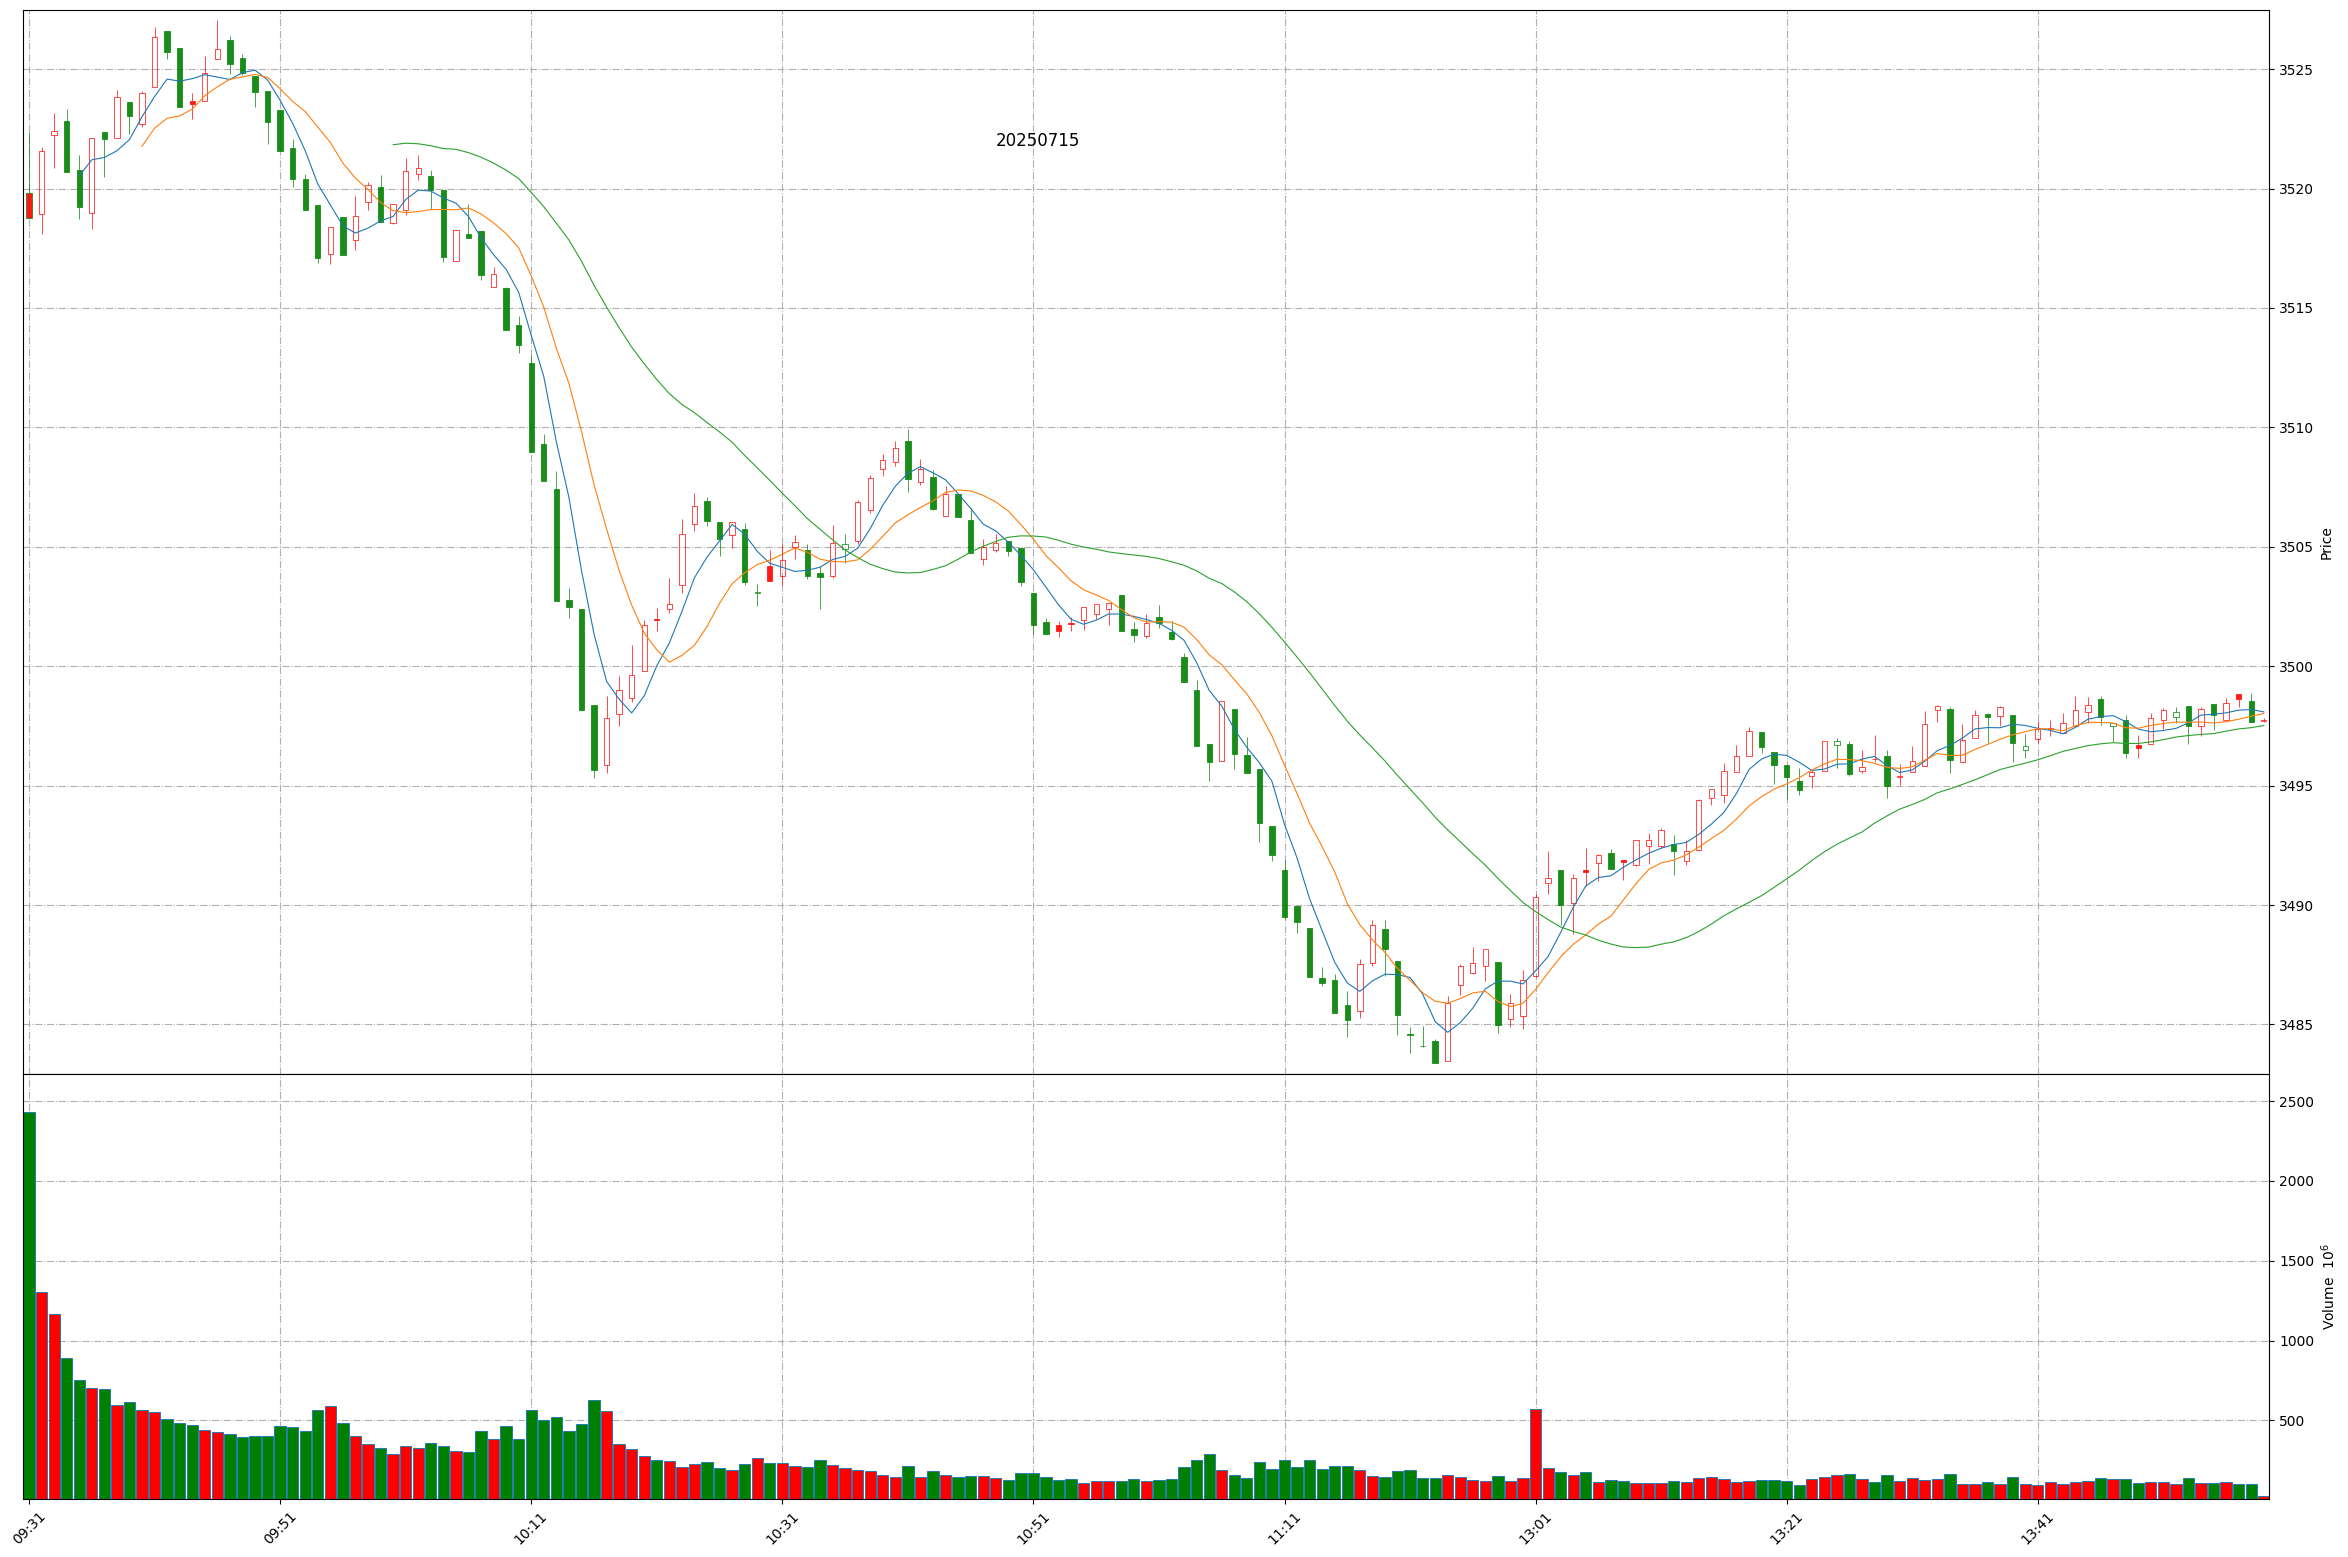
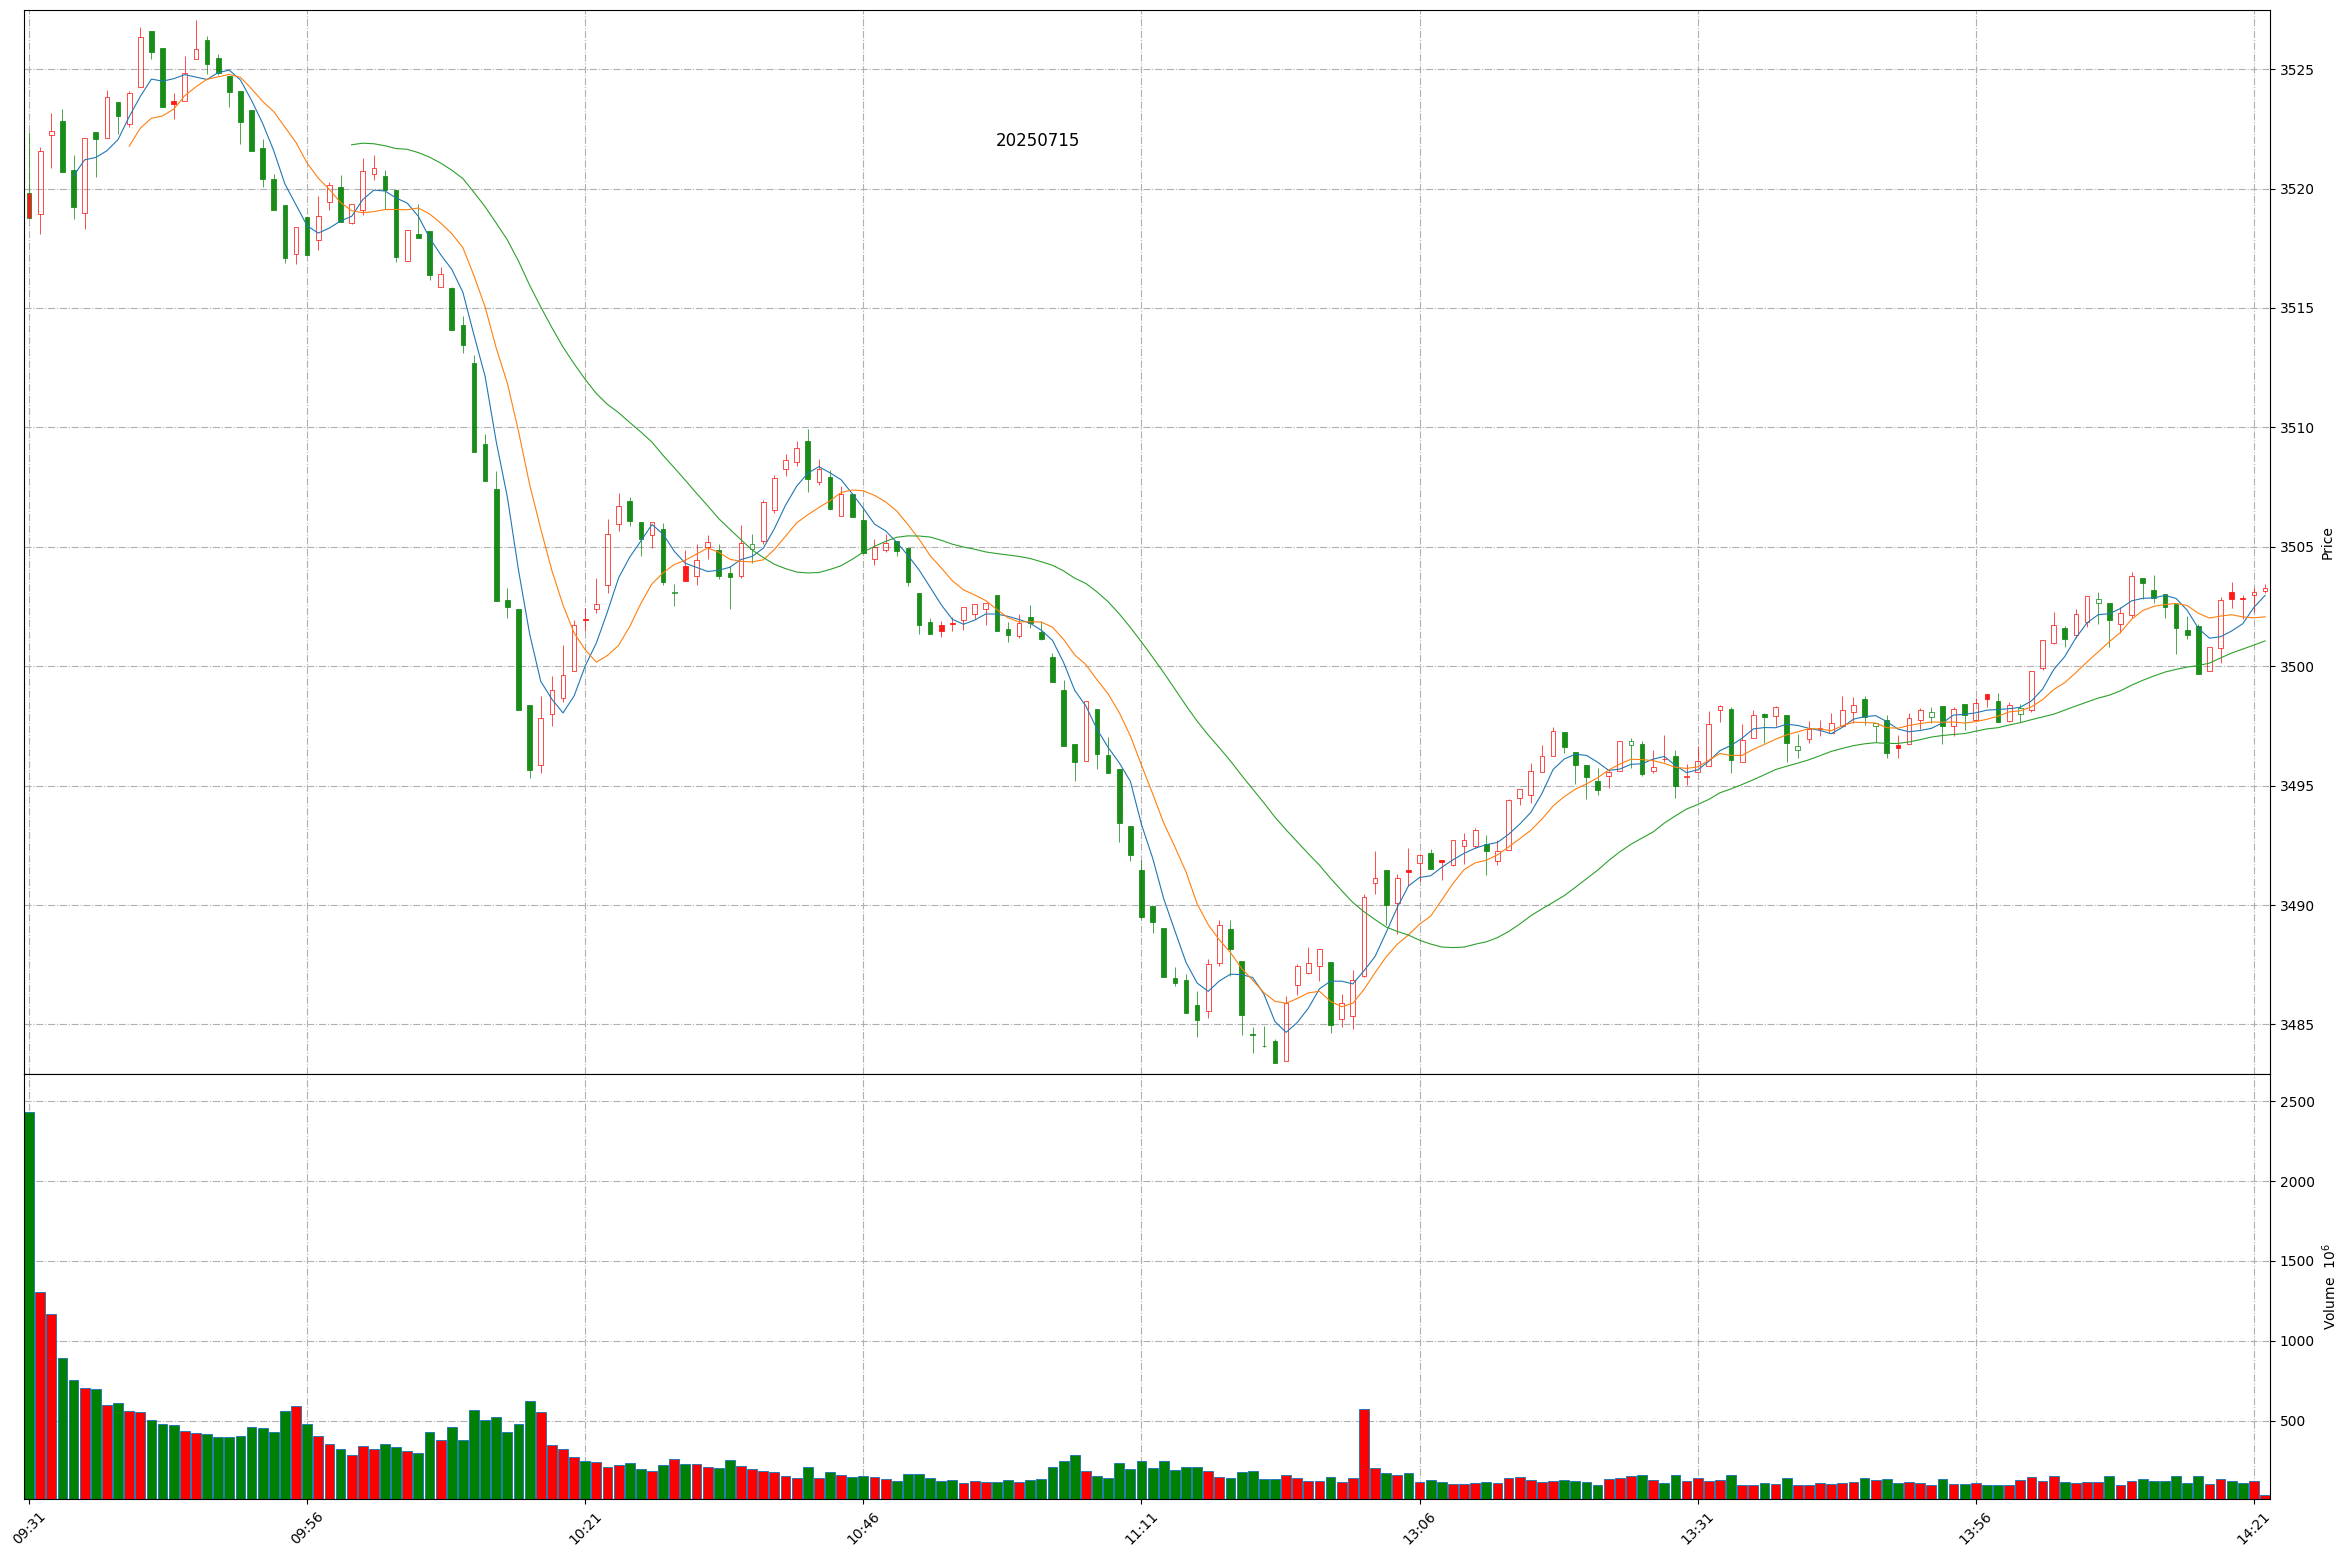
Github action update at 2025-07-15 14:21:38.

diff --git a/README.md b/README.md
@@ -1,11 +1,11 @@
 
 # Daily-A-share-market-quotes 每日 A 股指数（5min 更新）- 20250715
 
-### 上证指数 20250715 13:58
+### 上证指数 20250715 14:21
 ![](./fig/2025/7/20250715-sh000001.png)
 
-### 深证成指 20250715 13:58
+### 深证成指 20250715 14:21
 ![](./fig/2025/7/20250715-sz399001.png)
 
-### 北证50 20250715 13:58
+### 北证50 20250715 14:21
 ![](./fig/2025/7/20250715-bj899050.png)
